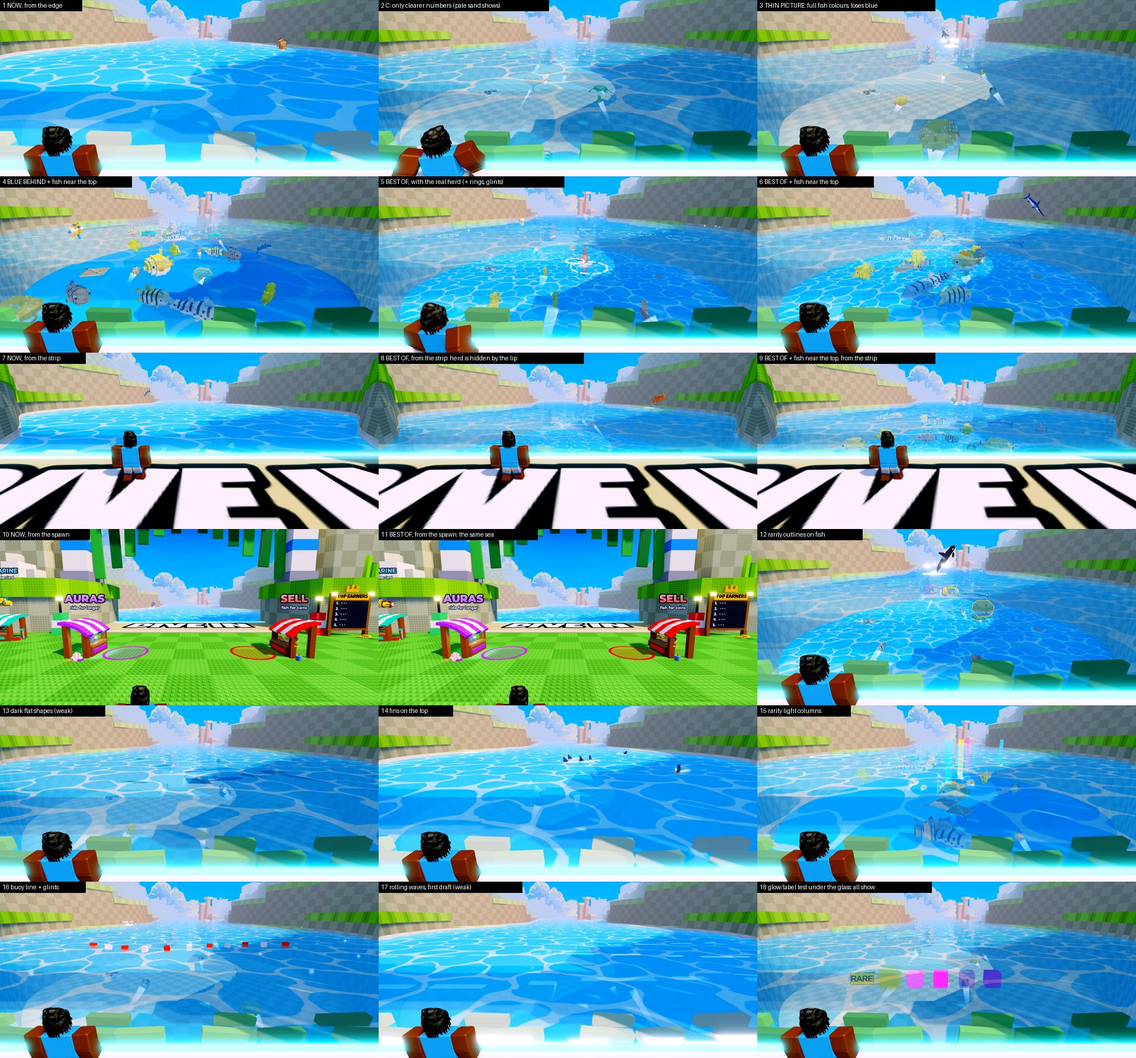
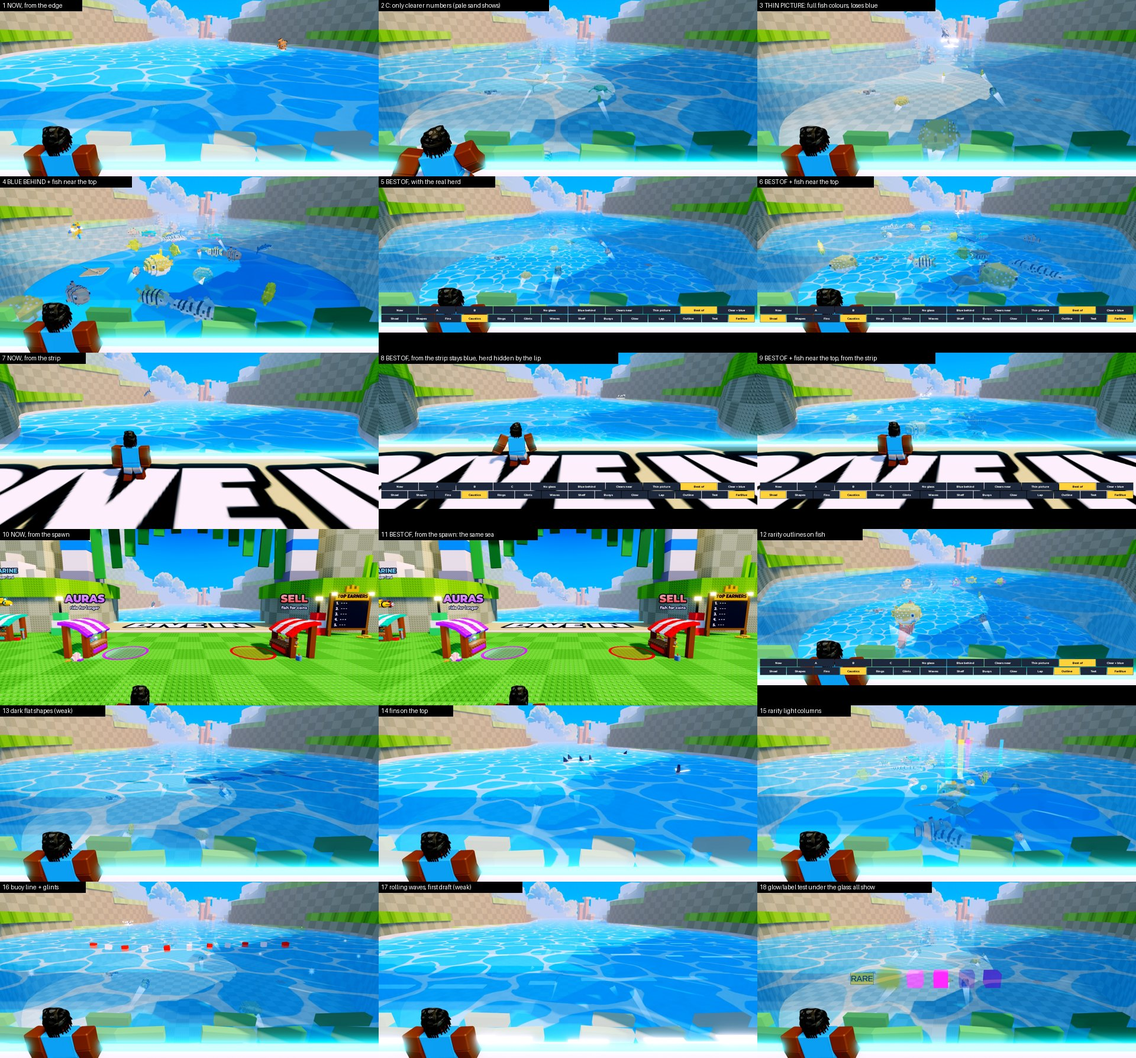
Water ideas: the far sea blue, the strip as it is now, buttons that fit; what may break a rule said

Changed region(s): [[0.3125, 0.1538, 1.0, 0.6767]]

diff --git a/docs/design/water-ideas.md b/docs/design/water-ideas.md
@@ -9,7 +9,8 @@ transparent, easier to see the fish through but still visible as water."
 
 **Nothing is in the game.** Everything marked "tried" was seen in Play on one machine, over the real hub and herd, and went
 when Play stopped. Try it yourself: press Play, then run [water_trial.luau](../../tools/studio/water_trial.luau) on the Client
-(or ask the map chat). It puts two rows of buttons on the screen: how clear (one at a time) and add-ons (any together).
+(or ask the map chat). It puts two rows of buttons on the screen: how clear (one at a time) and add-ons (any together). "Best
+of" presses FarBlue and Caustics with it; press Shoal for the fish near the top.
 
 ![Eighteen views](../attachments/water-ideas.jpg)
 
@@ -29,7 +30,8 @@ when Play stopped. Try it yourself: press Play, then run [water_trial.luau](../.
    (view 8); from the edge, about 58 (view 5). Fish must be within about 14 studs of the top to be seen from the strip
    (view 9), or show on the surface.
 5. **Glass does not hide glows here.** Builders report that glass hides see-through things behind it. Ours didn't: half
-   see-through parts, Neon, particles and a label all showed (view 18), and so did outlines (view 12). That was Studio at its
+   see-through parts, Neon, particles and a label all showed (view 18), and so did
+   outlines, of the kind walls hide (view 12). That was Studio at its
    top graphics level; **not checked on a phone or at low graphics.**
 6. **From below, nothing changed:** the underwater ceiling is its own sheets, so it looks as it did.
 
@@ -38,17 +40,18 @@ Four parts, no upload. The first three touch only the water script.
 
 | Part | What it does | How | Cost | Whose |
 |---|---|---|---|---|
-| **Clears as you come** | The sea is as it is now from the spawn, and clears as you walk to the edge | layers 0.35/0.76/0.78/0.85 to 0.78/0.90/0.93/0.93, picture 0.6 to 0.82, by the camera's distance from the edge (85 studs down to 20) | none | map |
+| **Clears as you come** | The sea is as it is now from the spawn, and clears as you walk to the edge | layers 0.35/0.76/0.78/0.85 to 0.78/0.90/0.93/0.93, picture 0.6 to 0.82, by how far the camera is from the edge (none at 42 studs, all at 12) | none | map |
 | **Blue floor light** | The floor is blue with moving light lines, so it still looks like water and fish stand out | the water's own picture on the first 280 studs of floor, sliding; only while your camera is above the water | 26 Textures | map |
 | **Far blue** | The clear patch fades into blue further out, with no joins | one flat Beam under the layers, see-through near, blue far; camera above water only | 1 Beam: one more see-through sheet | map |
-| **Fish near the top at the gate** | You see them from the strip, the only fix for the lip | copies on each screen, 5 to 12 studs down (made as the leaping fish are), or the herd itself rising in its first 150 studs | about 20 models, moved on each screen | game code |
+| **Fish near the top at the gate** | You see them from the strip, the only fix for the lip | copies on each screen, 5 to 12 studs down (made as the leaping fish are), gone as the camera dives since they can't be ridden; or the herd itself rising in its first 150 studs | about 20 models, moved on each screen | game code |
 
-Two of the user's rules to check against it: **no visible joins** (none seen) and **no second copy of the picture** (2026-11-11,
-about two copies on the surface; this one is on the floor, 47 studs below). The numbers are a first setting, to tune with the
-buttons.
+**One of the user's rules this may break:** on 2026-11-11 a second copy of the picture at another size was disliked and
+removed. Views 5 and 6 show two cell patterns at once, one on the surface and one 47 studs down on the floor. If it bothers
+them, the floor light comes off (the floor plain blue) or the surface gets the lines-only picture, and one pattern is left.
+No joins were seen. The numbers are a first setting, to tune with the buttons.
 
-**The smallest version:** "Clears as you come" with "Blue floor light". From the edge it shows the real herd (view 5, which
-also has Far blue). It doesn't help from the strip (view 8).
+**The smallest version is the first three parts** (view 5). It pays only at the edge: from the strip the sea stays as blue as now
+and no fish show (view 8), because the herd is under the lip. Seeing fish from the strip takes the fourth part (view 9).
 
 ## Every way to show the fish
 | # | Way | Tried | Verdict |
@@ -119,10 +122,13 @@ also has Far blue). It doesn't help from the strip (view 8).
 ## Not checked
 Phones and low graphics (the glass finding, the layers' cost, the Beam, the 26 Textures); the clearing while walking (three
 spots were seen); the moment of diving through (the floor light switches off as the camera goes under); more than one player;
-the frame rate.
+the frame rate; clicking the buttons by hand (a script pressed them; they were seen and fit). The herd may come in at the
+gate in sight ([the herd, rethought](herd-revamp.md), point 5: the lane's start is the one exception, fish fading in over 0.6
+seconds), which clear water will show: look for it at the edge.
 
 ## To decide
-1. "Best of", the smallest version, or leave it.
-2. If "Best of": fish near the top as copies, or the real herd rising (with the game-code chat).
-3. Any of: glints, buoys, rings, fins, rarity outlines.
-4. A lines-only picture: one upload, on the user's word.
+1. **The second cell pattern on the floor: fine, or not?** (above)
+2. "Best of" (all four), its first three parts, or leave it.
+3. If all four: fish near the top as copies, or the real herd rising (with the game-code chat).
+4. Any of: glints, buoys, rings, fins, rarity outlines.
+5. A lines-only picture: one upload, on the user's word.
